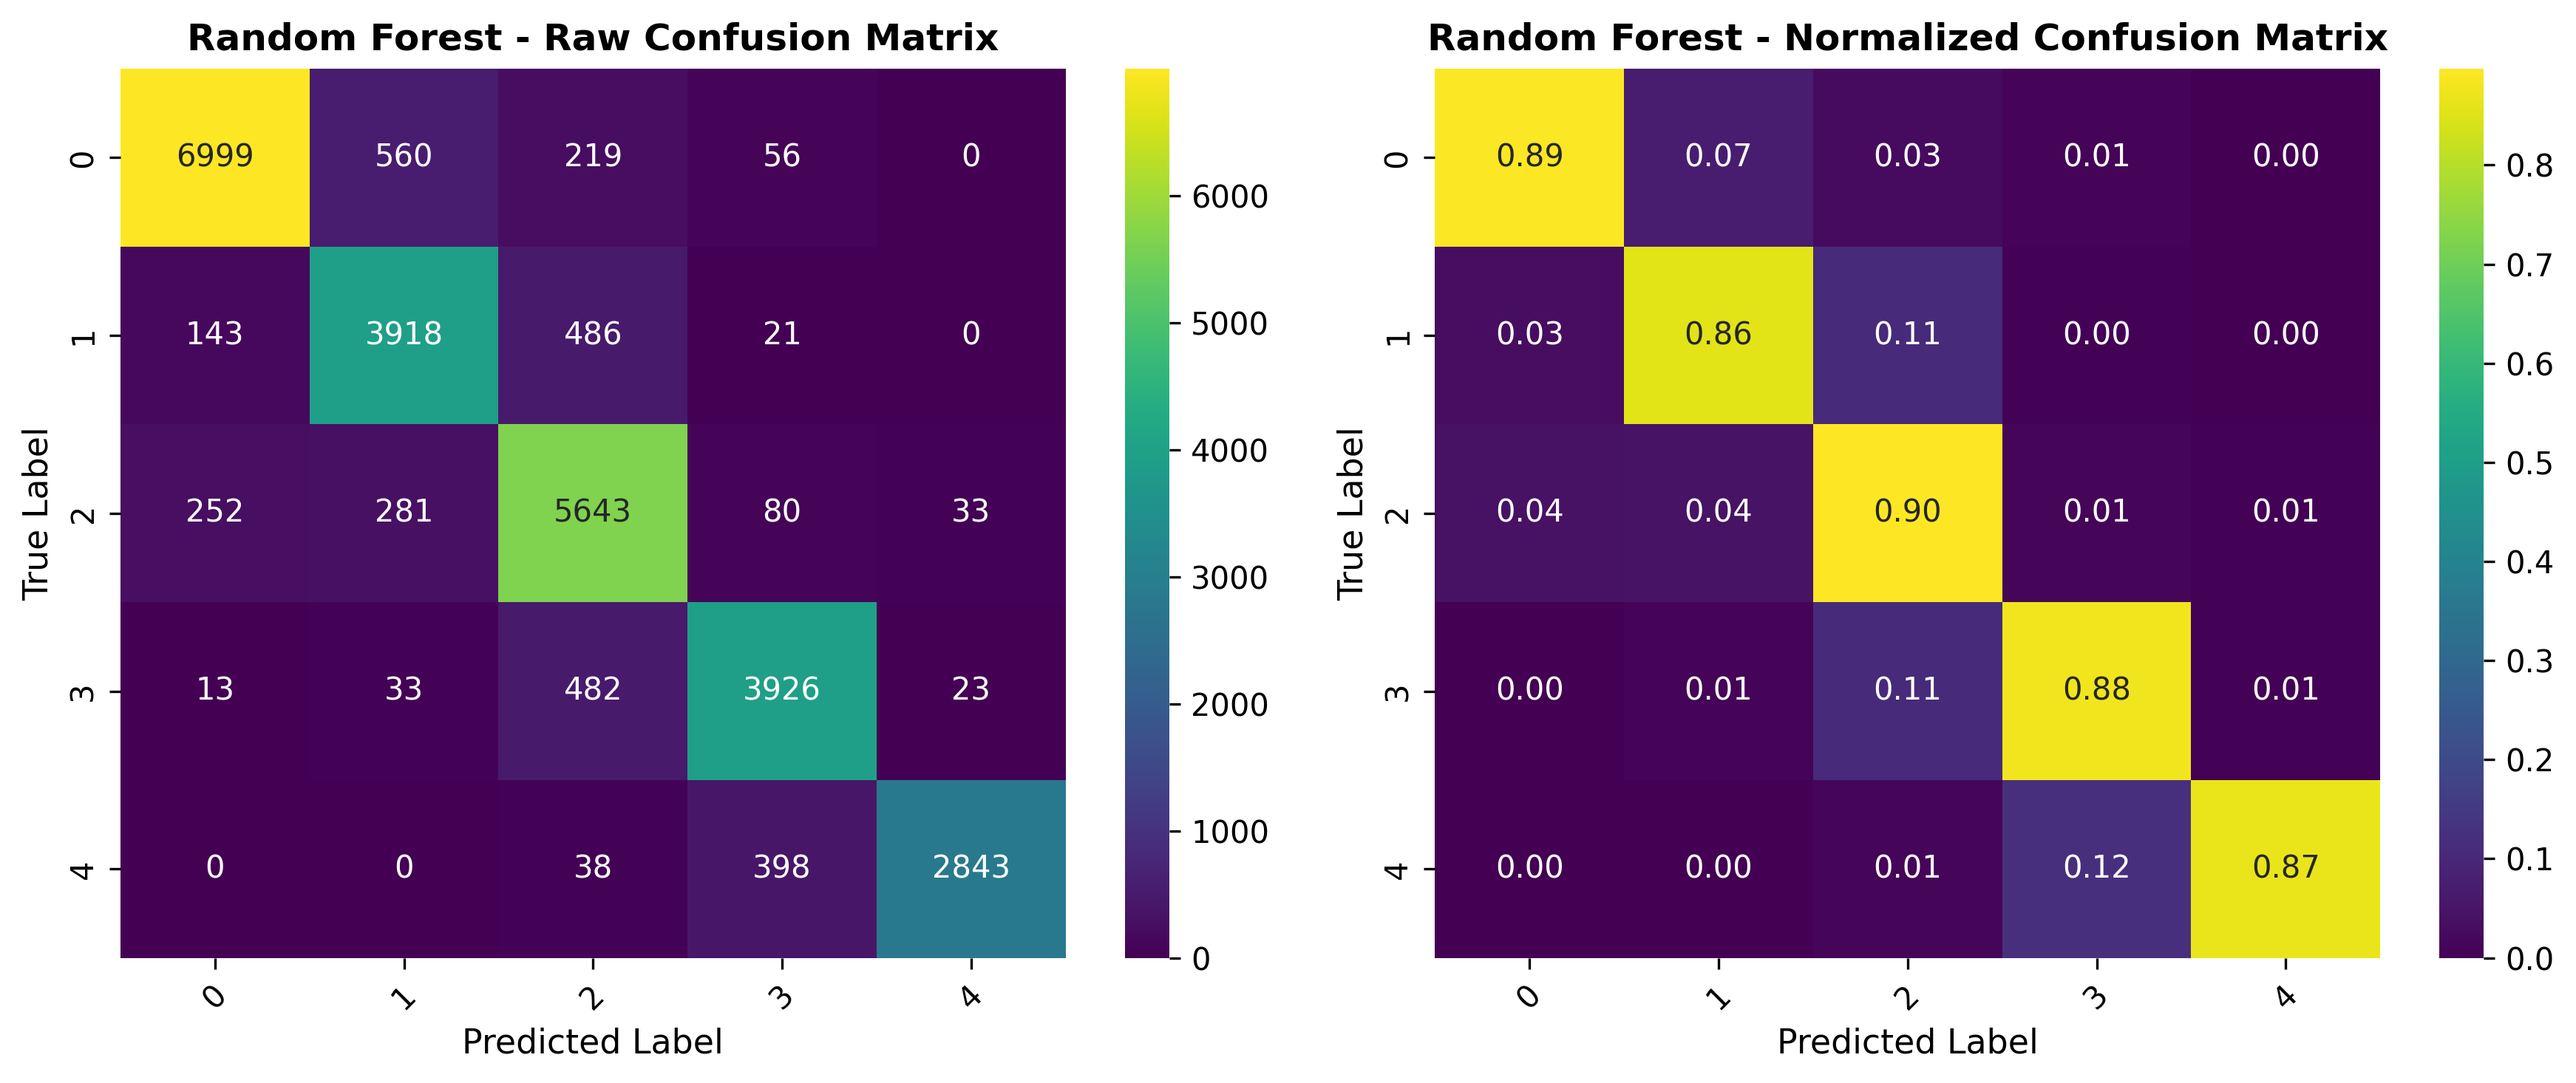
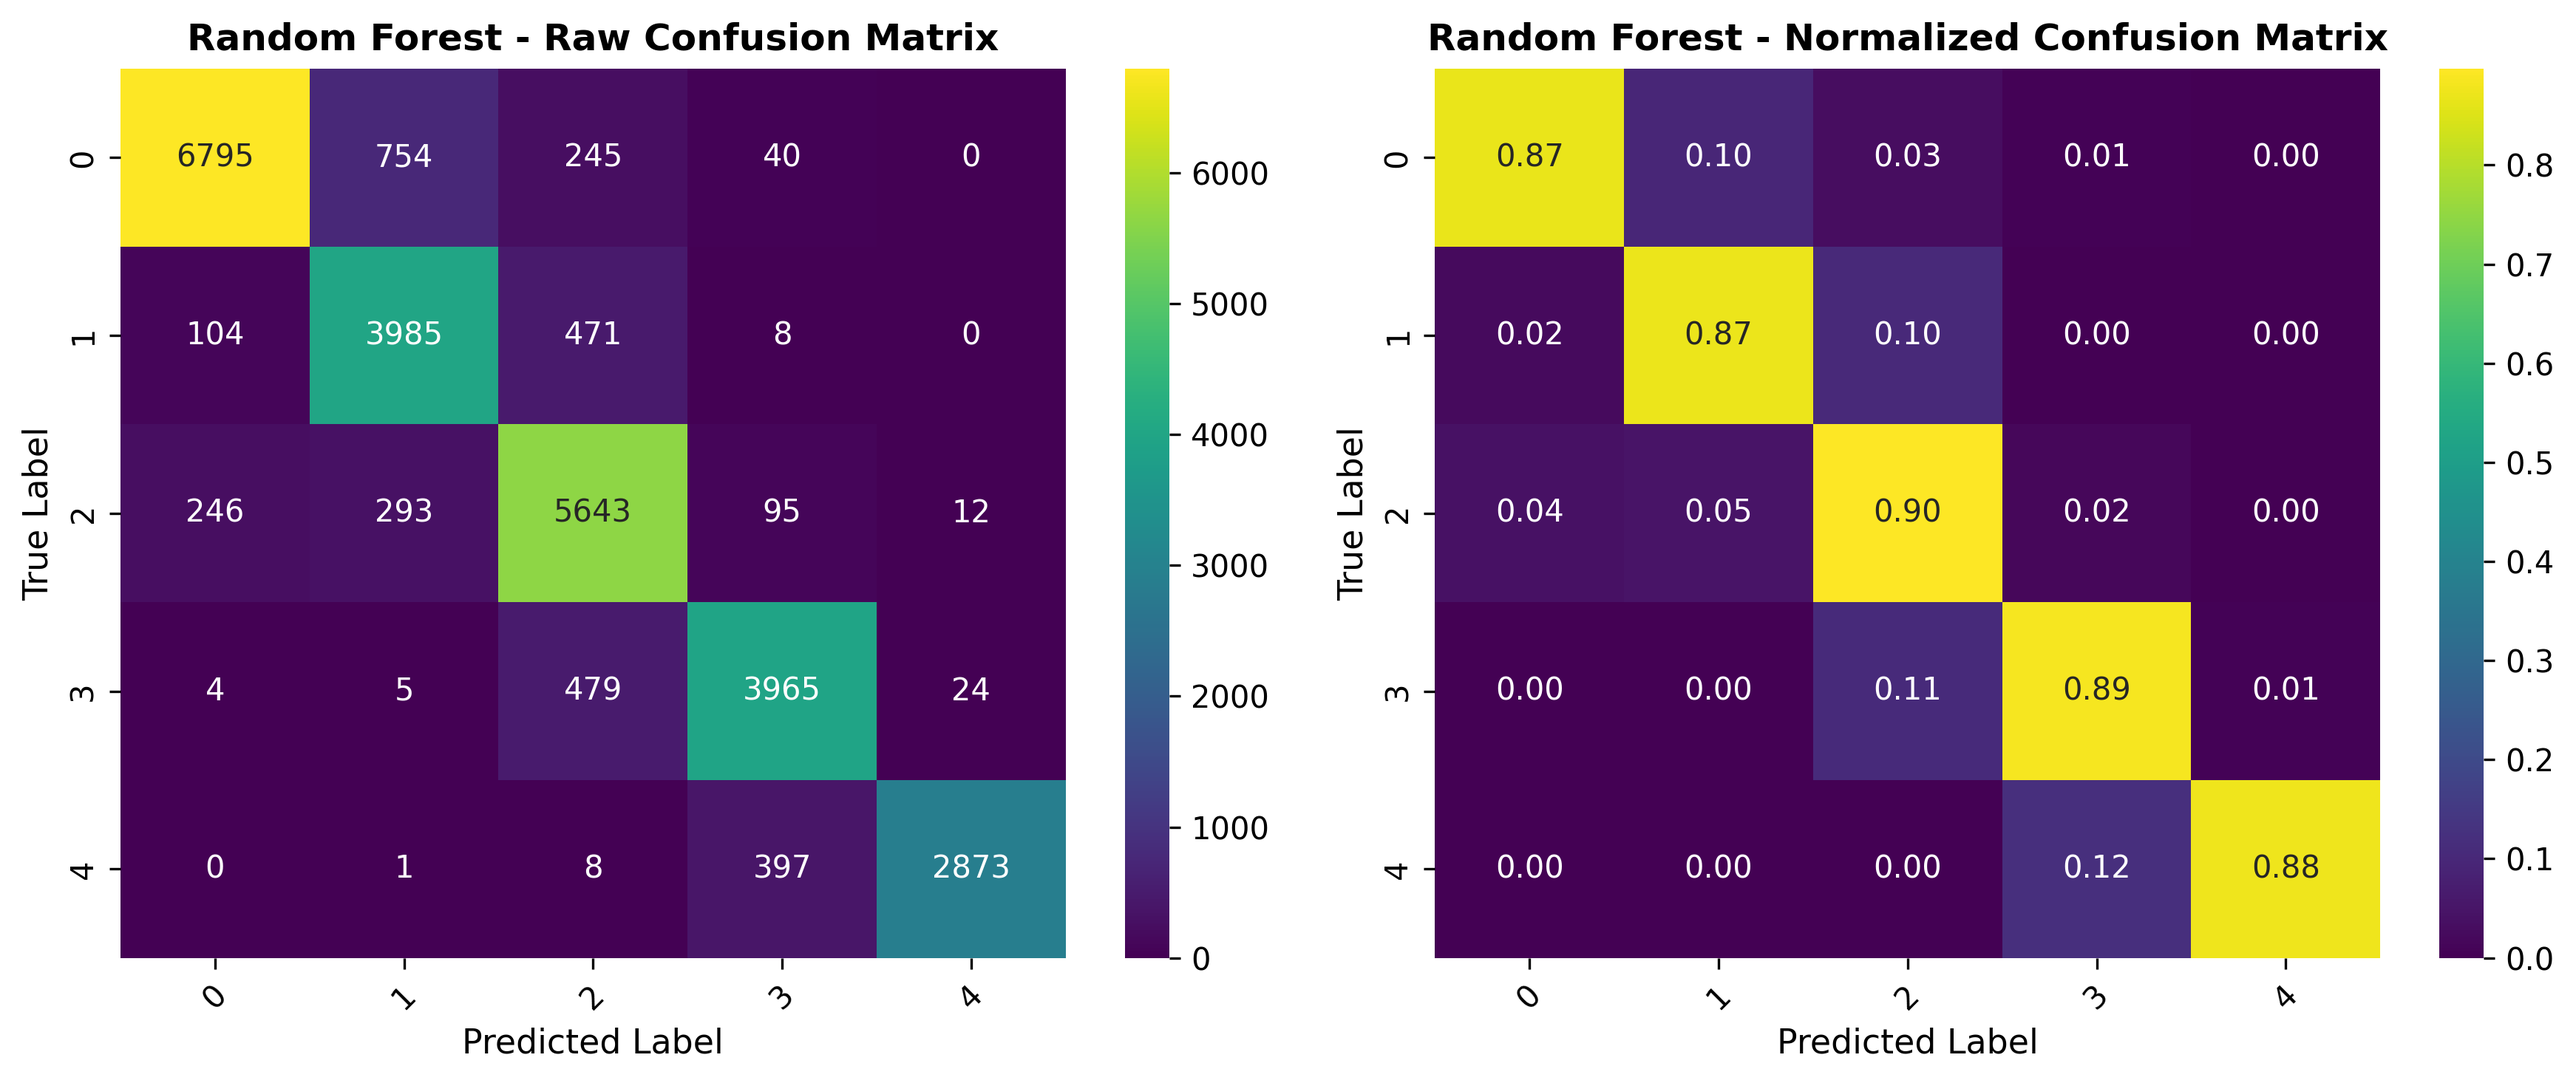
optimize

diff --git a/1_data_preprocessing.py b/1_data_preprocessing.py
@@ -19,6 +19,15 @@ def load_all_data():
 
     df_eu = load_csv_with_info(EU_PASSENGERS_FILE, "EU Passengers")
     df_ww = load_csv_with_info(WW_PASSENGERS_FILE, "WW Passengers")
+    initial_ww_rows = len(df_ww)
+    df_ww = df_ww.drop_duplicates().reset_index(drop=True)
+    removed = initial_ww_rows - len(df_ww)
+    if removed > 0:
+        print(
+            f"  Removed {removed} duplicate rows from WW data ({removed / initial_ww_rows * 100:.1f}%)"
+        )
+        print(f"  WW dataset: {initial_ww_rows:,} → {len(df_ww):,} rows")
+
     df_airports = load_csv_with_info(AIRPORTS_FILE, "Airports")
     df_lease = load_csv_with_info(LEASE_FILE, "Lease Terms")
 
@@ -117,12 +126,12 @@ def engineer_advanced_features(df):
     df = df.copy()
 
     # 1. Travel complexity score
-    df["travel_complexity"] = (
-        df["has_connection"] * 2
-        + (df["layover_time"] > 0).astype(int)
-        + (df["luggage_weight_kg"] > 20).astype(int)
-    )
-    print("  ✓ Created: travel_complexity")
+    # df["travel_complexity"] = (
+    #     df["has_connection"] * 2
+    #     + (df["layover_time"] > 0).astype(int)
+    #     + (df["luggage_weight_kg"] > 20).astype(int)
+    # )
+    # print("  ✓ Created: travel_complexity")
 
     # 2. Long-haul flight indicator
     df["is_long_haul"] = (df["total_flighttime"] > 360).astype(int)

diff --git a/config.py b/config.py
@@ -70,9 +70,9 @@ CORE_FEATURES = [
 
 # Advanced engineered features
 ADVANCED_FEATURES = [
-    "travel_complexity",
     "is_long_haul",
     "layover_ratio",
+    "layover_category",
 ]
 
 # ============================================================================
@@ -151,9 +151,9 @@ OPTIMAL_RF_PARAMS = {
 
 # Feature selection parameters
 FEATURE_SELECTION_PARAMS = {
-    "correlation_threshold": 0.8,  # For multicollinearity check
+    "correlation_threshold": 0.95,  # For multicollinearity check
     "variance_threshold": 0.01,  # Minimum variance for feature
-    "importance_threshold": 0.001,  # Minimum feature importance
+    "importance_threshold": 0.0005,  # Minimum feature importance
 }
 
 # ============================================================================
